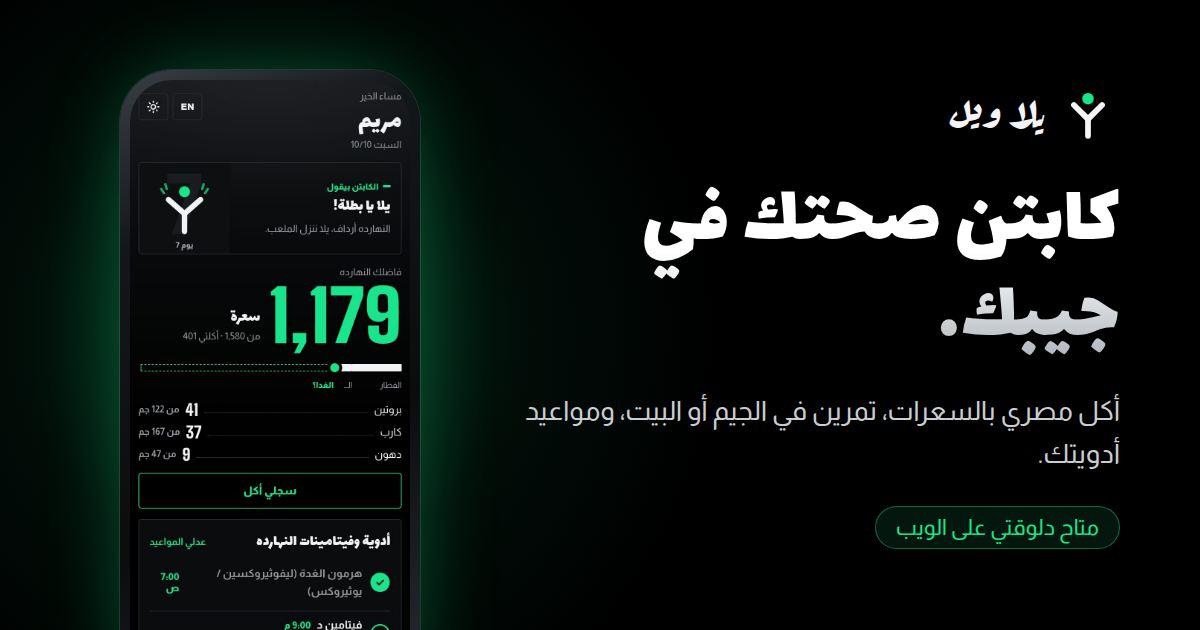
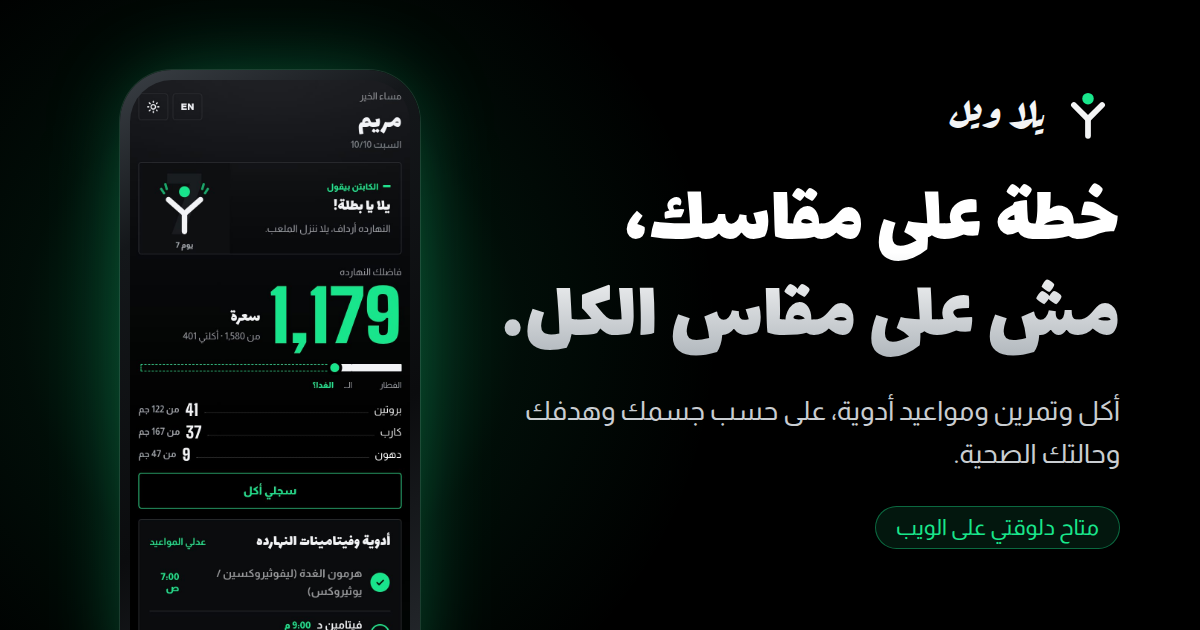
Website: rewrite copy around personal plans; fix story screen swipe
Copy in Arabic and English now leads with a plan made for one person,
everyday recipes sized to calories, tests for your condition and personal
follow-up of health and medicines, plus a section of the real differences.
The story screens no longer stack the CSS offset on top of the GSAP one,
so the next screen swipes in from the side in both languages.

Claude-Session: https://claude.ai/code/session_01JvbGA9GLXmNusdn7kVNFbD

Changed region(s): [[0.4008, 0.2714, 0.9558, 0.573], [0.4317, 0.6333, 0.9558, 0.754]]

diff --git a/website/static/site.css b/website/static/site.css
@@ -80,7 +80,7 @@ main { overflow-x: clip; }
 .h2 { font-size: clamp(32px, 4.6vw, 58px); line-height: 1.2; margin-bottom: 16px; text-wrap: balance; }
 .h3 { font-size: clamp(22px, 2.2vw, 26px); line-height: 1.35; }
 .is-en .h1, .is-en .h2 { line-height: 1.05; }
-.lead { font-size: clamp(17px, 1.9vw, 21px); color: var(--soft); line-height: 1.75; margin: 0; }
+.lead { font-size: clamp(17px, 1.9vw, 21px); color: var(--soft); line-height: 1.75; margin: 0; text-wrap: pretty; }
 .is-en .lead { line-height: 1.55; }
 .kicker { color: var(--accent); font-weight: 800; font-size: 15px; margin: 0 0 10px; }
 .is-en .kicker { text-transform: uppercase; letter-spacing: 0.12em; font-size: 13px; }
@@ -330,7 +330,7 @@ a.store-web:hover { border-color: var(--accent); box-shadow: 0 16px 44px -12px r
   .motion .story-phone { position: relative; top: auto; height: 100vh; padding-top: var(--hdr); perspective: 1600px; }
   .motion .phone-sticky { height: min(680px, calc(100vh - var(--hdr) - 110px)); }
   .motion .phone .screen { opacity: 1; transition: none; transform: translateX(100%); }
-  [dir='rtl'] .motion .phone .screen { transform: translateX(-100%); }
+  .motion[dir='rtl'] .phone .screen { transform: translateX(-100%); }
   .motion .phone .screen:first-child { transform: none; }
   .motion .story-dots { display: flex; }
   .motion .story-nav { display: flex; gap: 12px; margin-bottom: clamp(28px, 4vh, 48px); }

diff --git a/website/static/site.js b/website/static/site.js
@@ -298,6 +298,8 @@
         const dots = [...story.querySelectorAll('.story-dots i')];
         const ph = story.querySelector('.phone-sticky');
         const n = steps.length;
+        // Start positions in percent only, so the CSS offset (there to avoid a flash before this runs) doesn't add up.
+        gsap.set(screens, { x: 0, xPercent: (i) => (i ? 100 * s : 0) });
         gsap.fromTo(ph, { y: 140, rotateX: 22, scale: 0.88 }, { y: 0, rotateX: 0, scale: 1, ease: 'none', scrollTrigger: { trigger: story, start: 'top bottom', end: 'top top', scrub: 0.7 } });
         const tl = gsap.timeline({
           defaults: { ease: 'none' },
